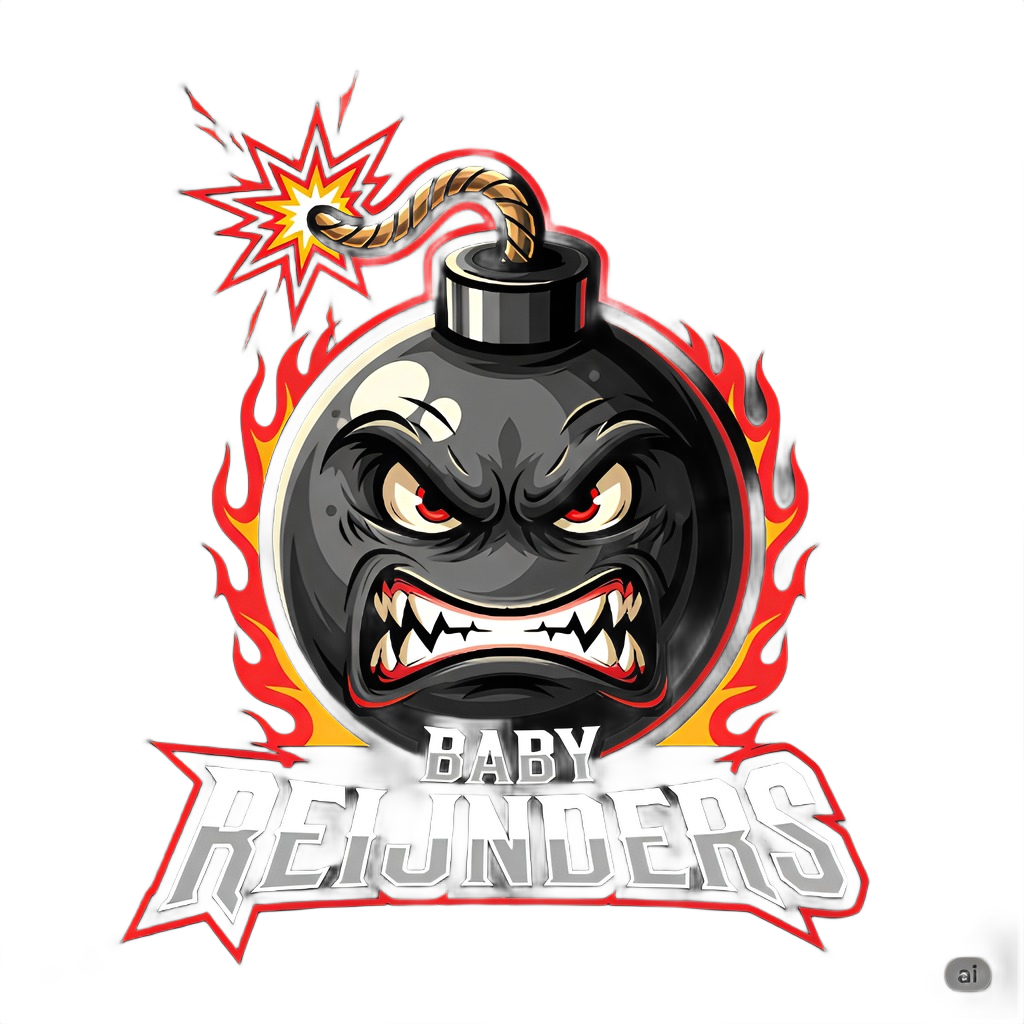
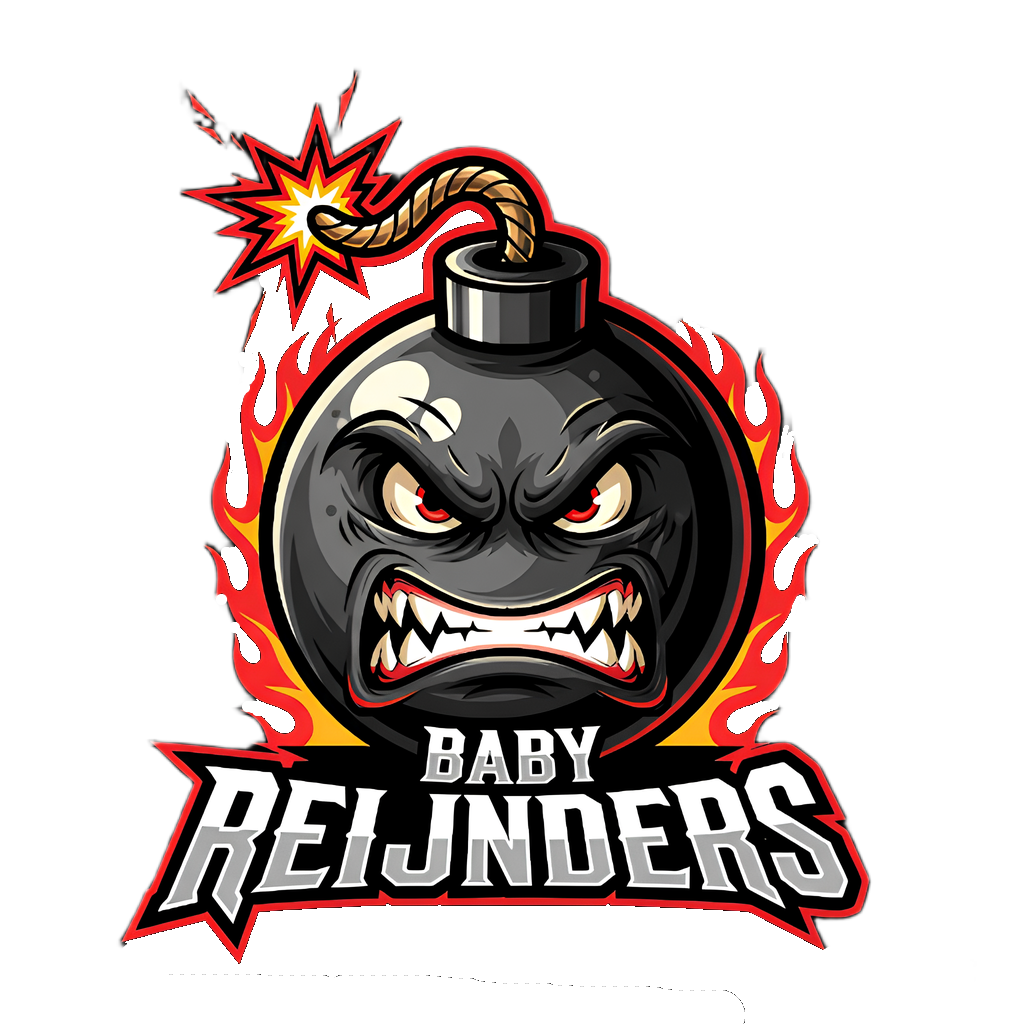
Aggiunti i loghi nelle schermate dashboard

diff --git a/templates/dashboardSquadra.html b/templates/dashboardSquadra.html
@@ -4,9 +4,17 @@
 <h1>Dashboard di {{ nome_squadra }}</h1>
 <div class="container my-4">
 
-    <!-- Titolo e Stadio -->
+    <!-- Titolo, Stadio e Logo -->
     <div class="row mb-3">
-        <div class="col-md-8">
+        <div class="col-md-2 d-flex align-items-center justify-content-center">
+            <div class="card shadow p-2 text-center">
+                <img    src="{{ url_for('static', filename='loghi/' ~ username ~ '.png') }}" 
+                        alt="Logo {{ nome_squadra }}" 
+                        class="img-fluid" 
+                        style="max-width: 100%; height: auto;">
+            </div>
+        </div>
+        <div class="col-md-6">
             <div class="card shadow p-3">
                 <h2 class="mb-0">{{ nome_squadra }}</h2>
                 <p class="text-muted">Stadio: {{ stadio.nome }} - Livello {{ stadio.livello }}</p>

diff --git a/main.py b/main.py
@@ -106,9 +106,10 @@ def dashboardSquadra(nome_squadra):
     stadio = cur.fetchone()  # lista di tuple
 
     
-    cur.execute("SELECT crediti FROM squadra WHERE nome = %s;", (nome_squadra,))
-    crediti = cur.fetchone()  # lista di tuple
-    crediti = crediti[0]
+    cur.execute("SELECT username, crediti FROM squadra WHERE nome = %s;", (nome_squadra,))
+    squadra_raw = cur.fetchone()  # lista di tuple
+    username = squadra_raw[0]
+    crediti = squadra_raw[1]
     
     # Prendi i dati dal database
     rosa = []
@@ -116,7 +117,7 @@ def dashboardSquadra(nome_squadra):
     cur.close()
     conn.close()
 
-    return render_template("dashboardSquadra.html", nome_squadra=nome_squadra, rosa=rosa, stadio=stadio, crediti=crediti, squadra=squadra)
+    return render_template("dashboardSquadra.html", nome_squadra=nome_squadra, rosa=rosa, stadio=stadio, username=username, crediti=crediti, squadra=squadra)
 
 
 
